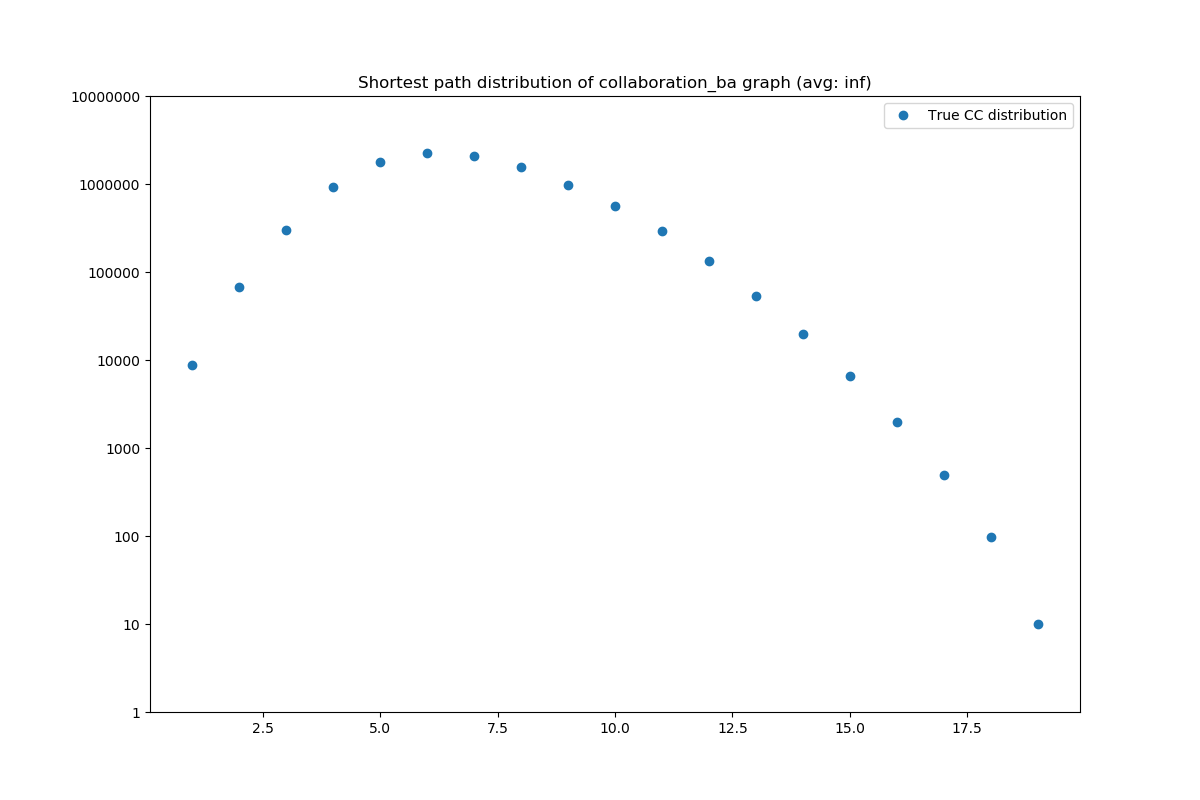
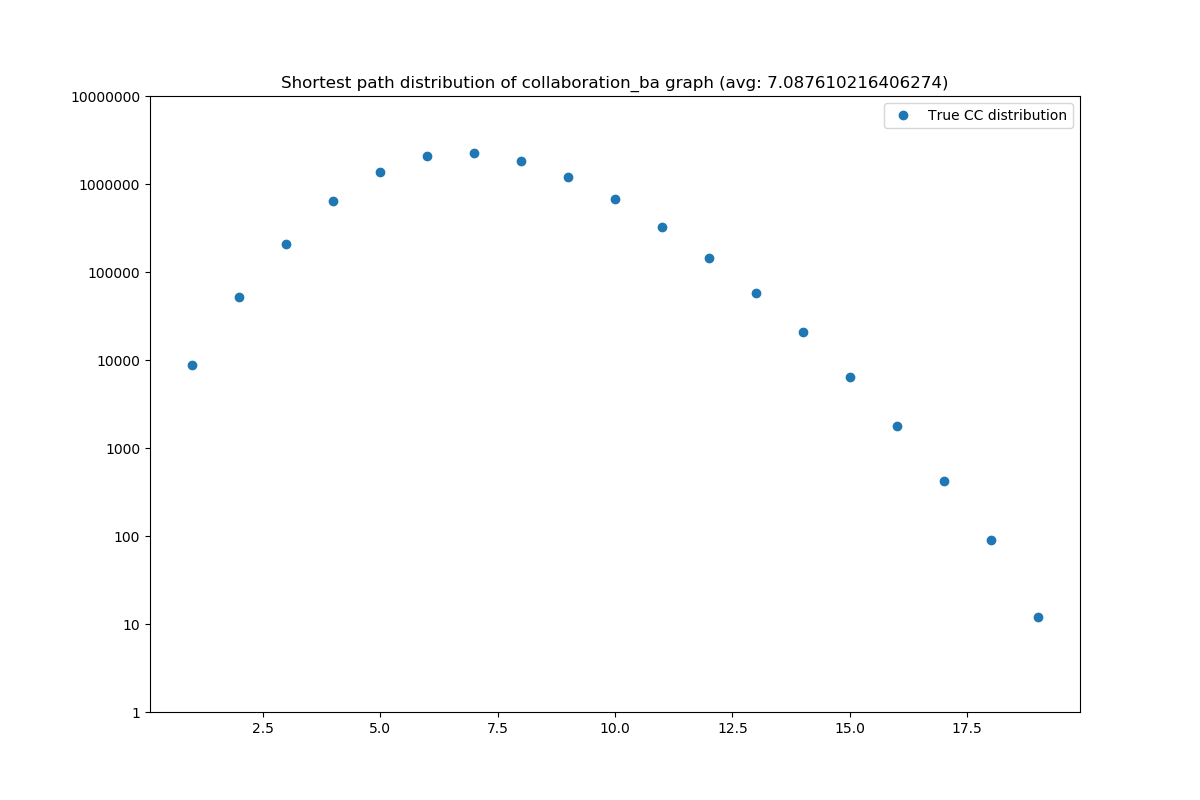
Updated results

diff --git a/a1/a1.py b/a1/a1.py
@@ -399,21 +399,21 @@ def main(params):
 
     print(f'Total nodes = {tot_nodes}, total links = {tot_links}')
 
-    # plot_degree_dist(adj, params.dataset)
-    # plot_degree_corr(adj, params.dataset)
+    plot_degree_dist(adj, params.dataset)
+    plot_degree_corr(adj, params.dataset)
 
-    # if adj.shape[0] > 5000:
-    #     sampled_nodes = np.random.choice(np.arange(adj.shape[0]), size=5000, replace=False)
-    #     adj = adj[sampled_nodes, :][:, sampled_nodes]
+    if adj.shape[0] > 5000:
+        sampled_nodes = np.random.choice(np.arange(adj.shape[0]), size=5000, replace=False)
+        adj = adj[sampled_nodes, :][:, sampled_nodes]
 
-    #     print(f'Sampled nodes = {adj.shape[0]}, Sampled links = {adj.sum()}')
+        print(f'Sampled nodes = {adj.shape[0]}, Sampled links = {adj.sum()}')
 
-    # plot_cc_dist(adj, params.dataset)
-    # plot_degree_cc_corr(adj, params.dataset)
-    # plot_sp_dist(adj, params.dataset)
-    # get_connected_comp(adj, params.dataset)
+    plot_cc_dist(adj, params.dataset)
+    plot_degree_cc_corr(adj, params.dataset)
+    plot_sp_dist(adj, params.dataset)
+    get_connected_comp(adj, params.dataset)
 
-    # plot_eig_dist(adj, params.dataset)
+    plot_eig_dist(adj, params.dataset)
 
     ####################
     print(f'Computing stats for {params.dataset}_ba')
